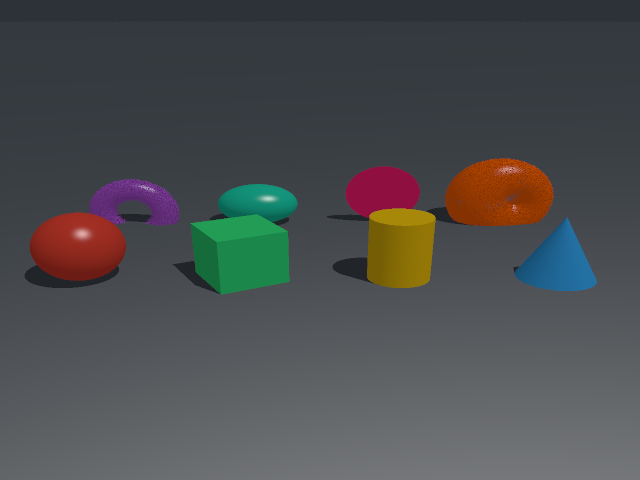
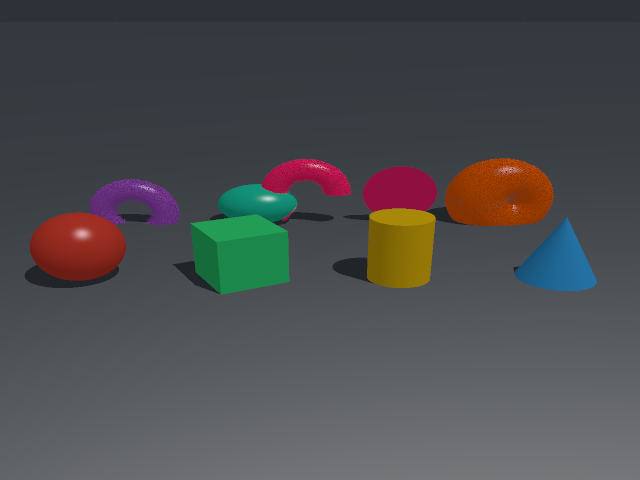
feat: CGS torus gains arc — the tube (partial-arc ring) back on the surface
The tube (TorusGeometry::tube, arc < 2pi) existed in the Rust API and in
the downstream r3d-cga corpus, but was unreachable from the scene
language and missing from the gallery. torus(R, r, arc=2pi) now takes the
optional arc: omitted or exactly 2pi keeps the full ring bit-identical,
anything in (0, 2pi) builds the partial-arc tube; out-of-range arcs get
an explicit error, and the third positional arg stays refused. The scene
report's torus(R, r, arc) spelling is now parseable back. Gallery lineup
gains the tube arc between ellipsoid and circle.

Changed region(s): [[0.4062, 0.3125, 0.6875, 0.4688]]

diff --git a/crates/cga-gpu/src/scene_lang/mod.rs b/crates/cga-gpu/src/scene_lang/mod.rs
@@ -962,6 +962,12 @@ fn validate_geometry_params(
                 return Err(format!("CGS line {line}: plane.n must not be zero"));
             }
         }
+        "torus" => {
+            let arc = cgs_arg_num(args, "arc");
+            if !(arc > 0.0) || arc > std::f64::consts::TAU {
+                return Err(format!("CGS line {line}: torus.arc must be in (0, 2*pi]"));
+            }
+        }
         "cyclide" => {
             let a = cgs_arg_num(args, "a");
             let b = cgs_arg_num(args, "b");
@@ -1126,6 +1132,9 @@ fn cgs_sig_defaults(name: &str) -> HashMap<String, CgsValue> {
         }
         "cylinder" => {
             m.insert("h".to_string(), CgsValue::Num(-1.0));
+        }
+        "torus" => {
+            m.insert("arc".to_string(), CgsValue::Num(std::f64::consts::TAU));
         }
         "bezier" => {
             m.insert("thickness".to_string(), CgsValue::Num(0.0));
@@ -2433,5 +2442,43 @@ mod tests {
             concat!(env!("CARGO_MANIFEST_DIR"), "/../../examples"),
         );
         assert_eq!(sc.objects.len(), 3);
+    }
+
+    #[test]
+    fn test_cgs_torus_arc() {
+        // 省略 arc（或恰为 2π）→ 整环，行为与既有 torus 逐位一致
+        for src in [
+            "torus(R=1, r=0.3);",
+            "torus(R=1, r=0.3, arc=6.283185307179586);",
+        ] {
+            let (sc, _) = cgs_load(src, "");
+            let Geometry::TorusGeometry(t) = &sc.objects[0].geometry else {
+                panic!("expected torus")
+            };
+            assert_eq!(t.arc, std::f64::consts::TAU, "{src}");
+        }
+        // arc < 2π → 部分弧环管（tube）
+        for src in [
+            "torus(R=1, r=0.3, arc=4.2);",
+            "t = torus(R=1, r=0.3, arc=4.2); show(t);",
+            "torus(R=1, r=0.3, arc=4.2).at([0, 1, 0]);",
+        ] {
+            let (sc, _) = cgs_load(src, "");
+            let Geometry::TorusGeometry(t) = &sc.objects[0].geometry else {
+                panic!("expected torus")
+            };
+            assert_eq!(t.arc, 4.2, "{src}");
+        }
+        // 错误组
+        for src in [
+            "torus(R=1, r=0.3, arc=0);",
+            "torus(R=1, r=0.3, arc=-1);",
+            "torus(R=1, r=0.3, arc=7);",
+        ] {
+            let e = v2_err(src);
+            assert_eq!(e, "CGS line 1: torus.arc must be in (0, 2*pi]", "{src}");
+        }
+        let e = v2_err("torus(1, 0.3, 4.2);");
+        assert_eq!(e, "CGS line 1: torus too many positional args");
     }
 }

diff --git a/crates/cga-gpu/src/scene_lang/scene_loader.rs b/crates/cga-gpu/src/scene_lang/scene_loader.rs
@@ -2069,7 +2069,19 @@ impl SceneLoader {
                     line,
                     "torus.r",
                 )?;
-                Ok(Geometry::TorusGeometry(TorusGeometry::new(r1, r2)))
+                let arc = cgs_num(
+                    &args
+                        .get("arc")
+                        .cloned()
+                        .unwrap_or(CgsValue::Num(std::f64::consts::TAU)),
+                    line,
+                    "torus.arc",
+                )?;
+                if arc >= std::f64::consts::TAU {
+                    Ok(Geometry::TorusGeometry(TorusGeometry::new(r1, r2)))
+                } else {
+                    Ok(Geometry::TorusGeometry(TorusGeometry::tube(r1, r2, arc)))
+                }
             }
             "cyclide" => {
                 let a = cgs_num(
